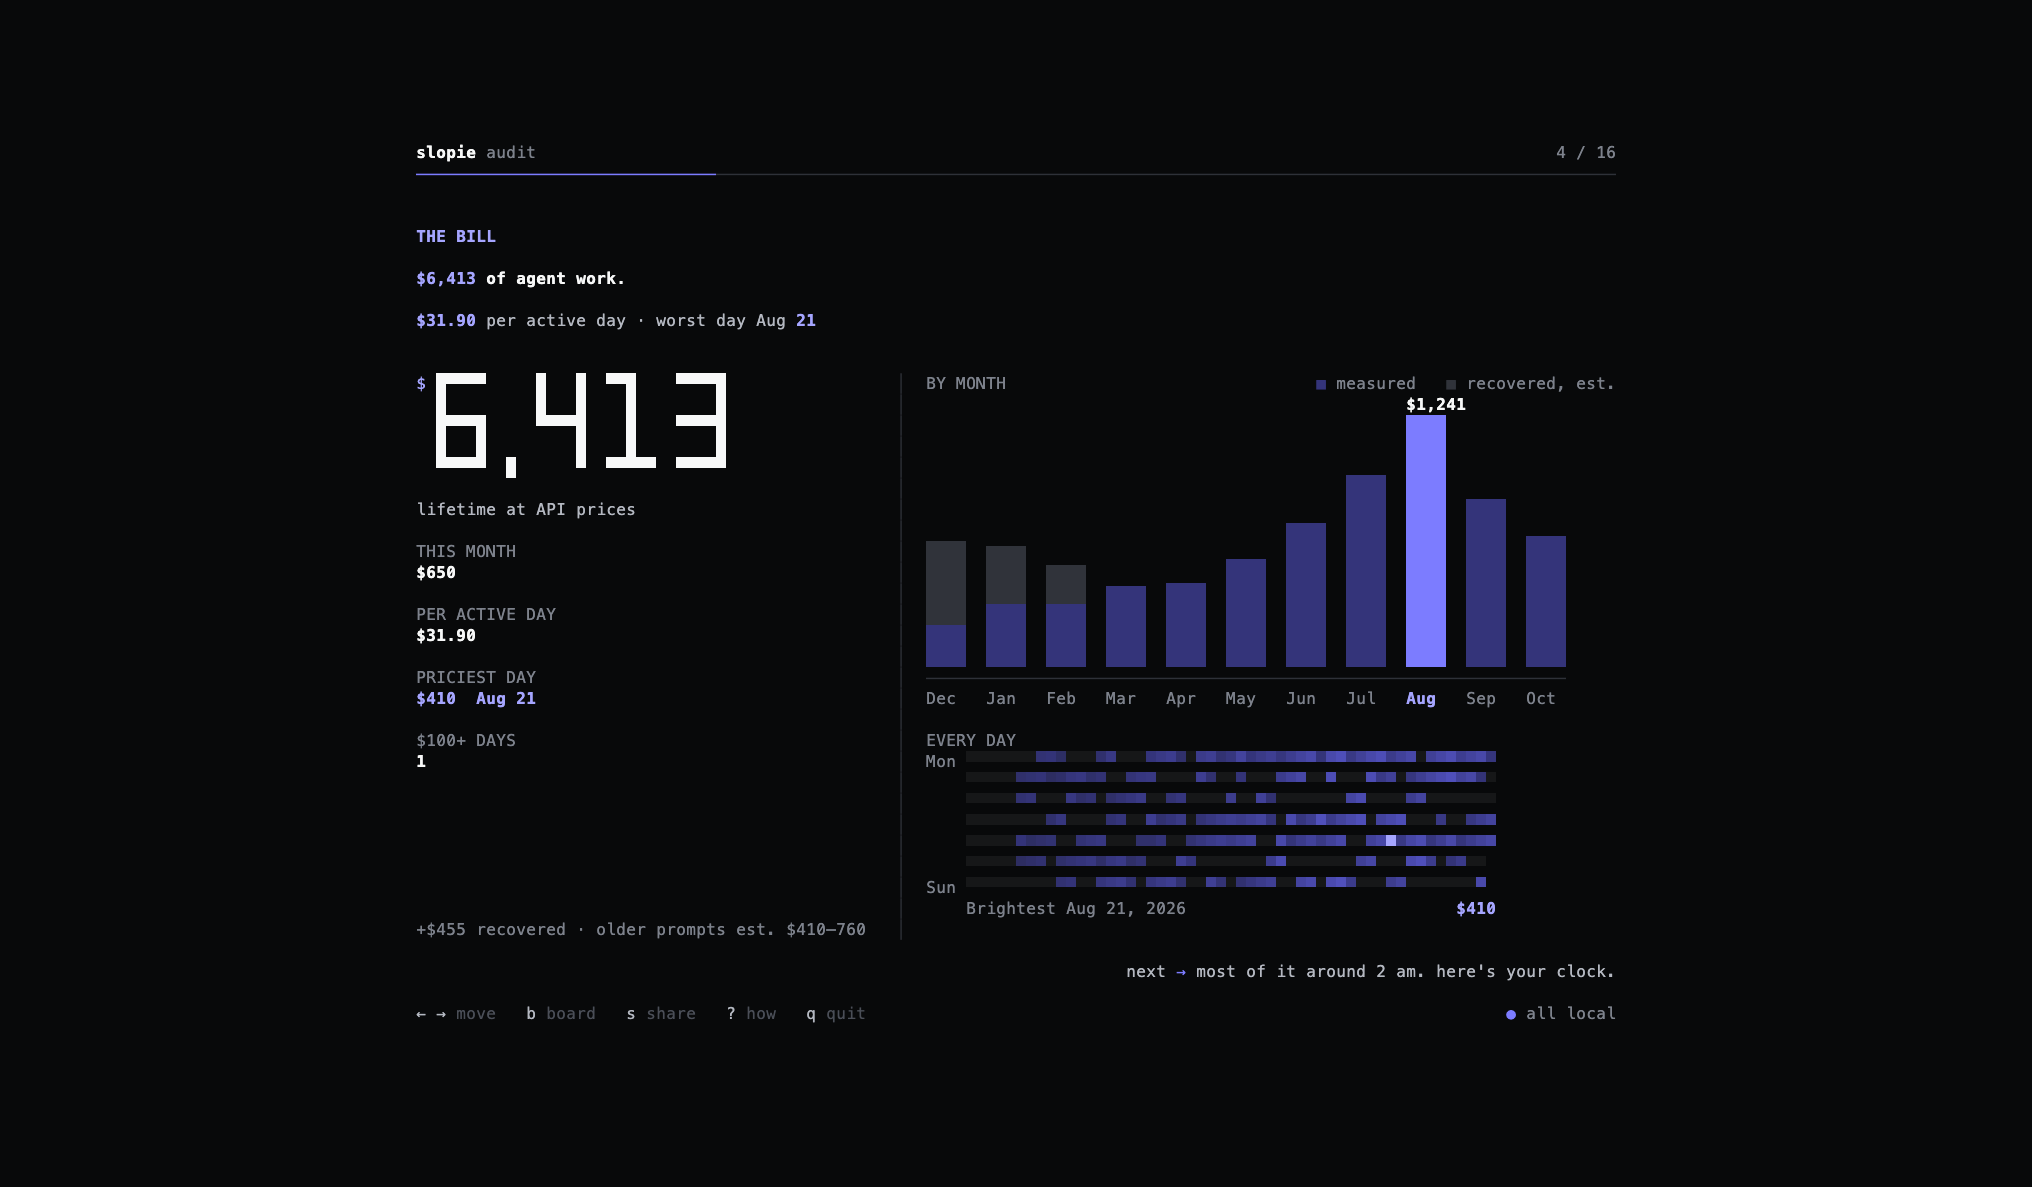
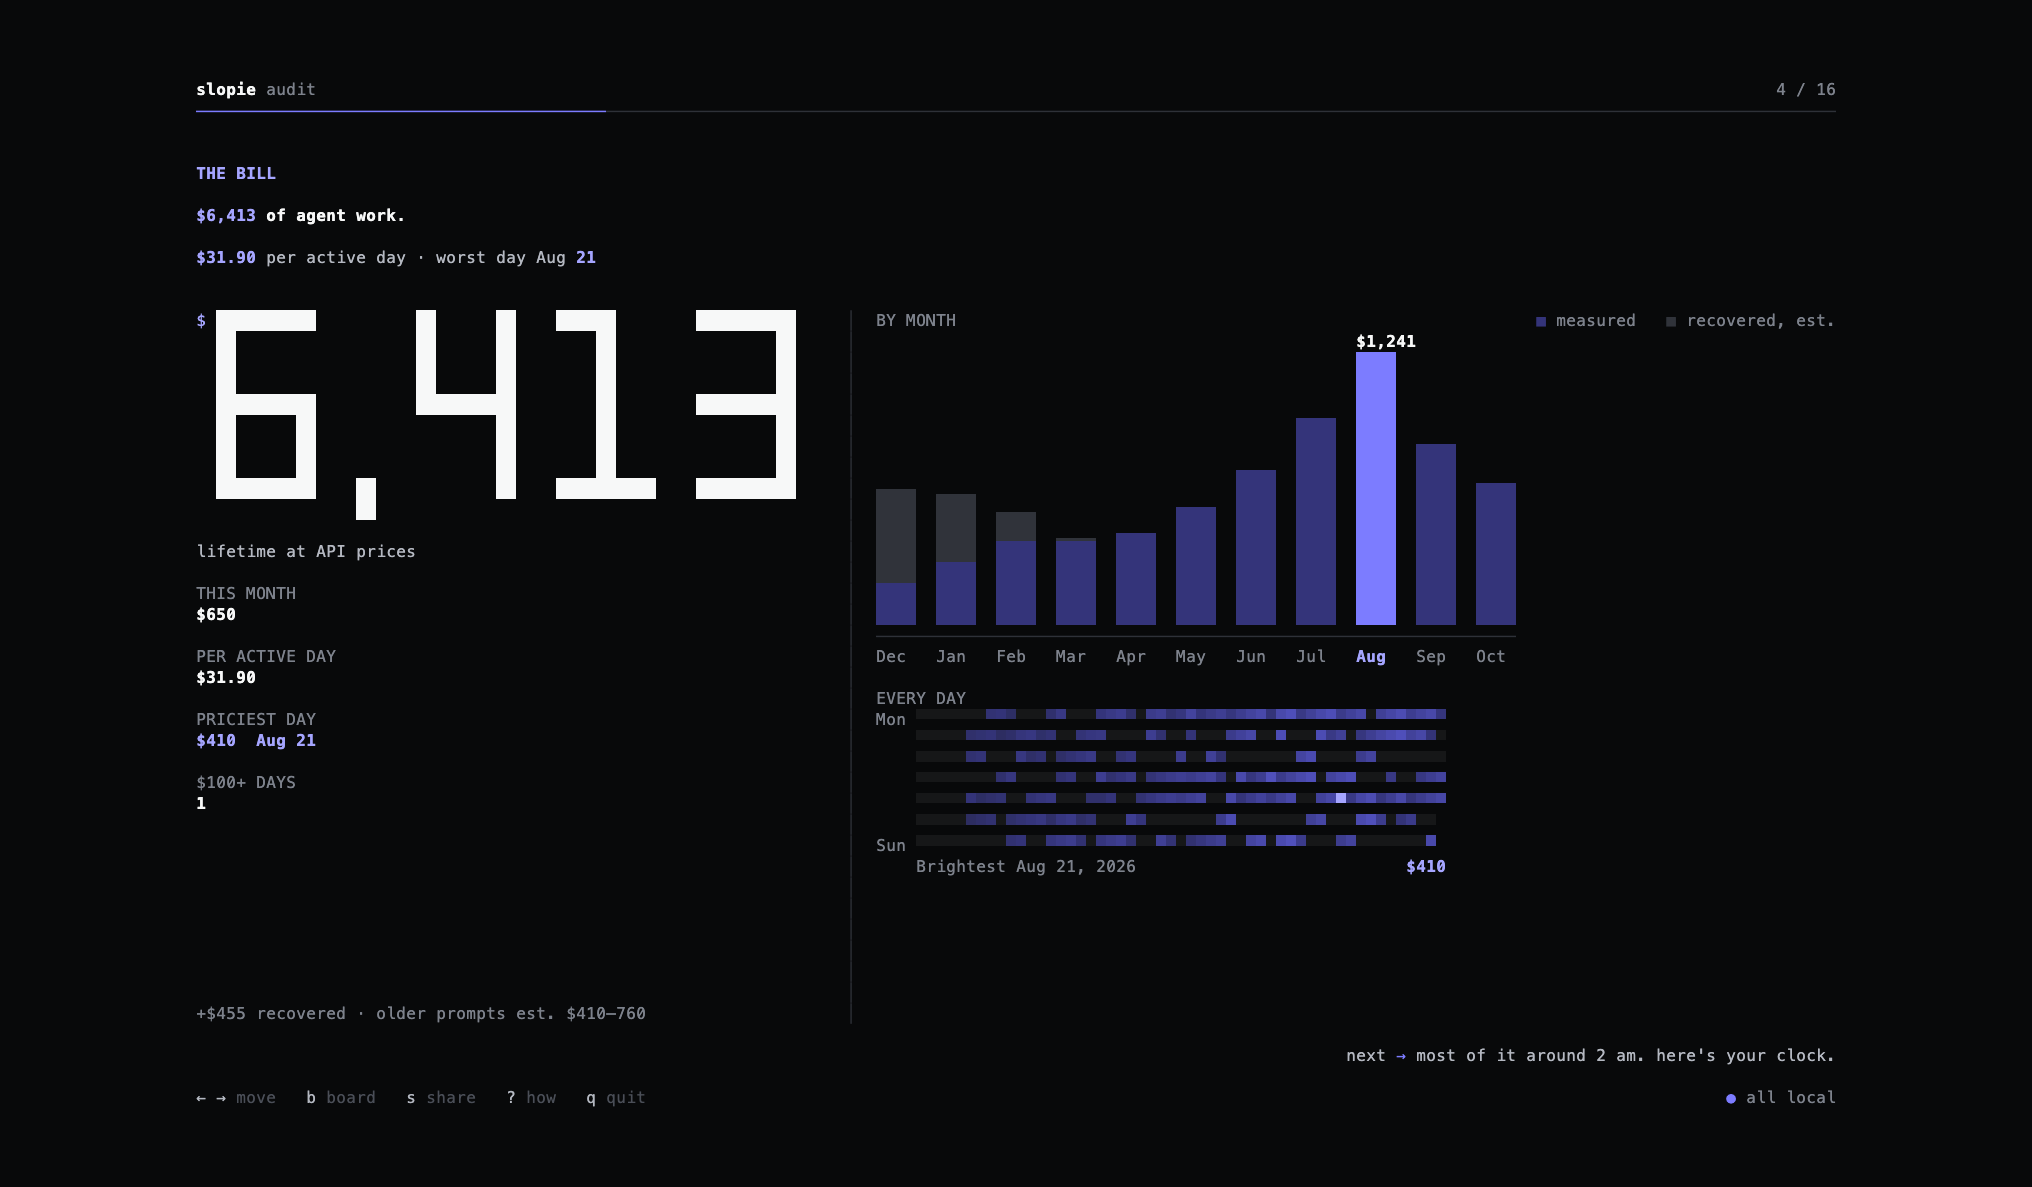
1.8.7 — Readable: large-terminal box, spaced board facts, rank-true award chips
Content box grows to min(cols−8, 176) × min(rows−4, 52) on big terminals; the board title
(else the price) doubles at ≥ 170×50. Board facts keep a blank row between rows and drop
mini-bars before spacing. Award chips follow the displayed rank; ranks 4–6 get a numeral.
Version bump, changelog, new share poster, re-rendered design-out/readable.

diff --git a/packages/cli/src/audit-ui/cards/poster.ts b/packages/cli/src/audit-ui/cards/poster.ts
@@ -61,10 +61,11 @@ interface Piece { h: number; draw: (y: number) => void; rule?: boolean; /** Want
 interface Plan { label: boolean; bigTitle: boolean; tagline: boolean; bigPrice: boolean; day: boolean; diagrams: boolean; nFacts: number; factGap: boolean; awards: boolean; memory: boolean; ticker: boolean }
 
 const STEPS: ((p: Plan) => void)[] = [
-  p => { p.factGap = false; },
   p => { p.memory = false; },
-  p => { p.label = false; },
+  // The mini-bars go before the spacing between facts.
   p => { p.diagrams = false; },
+  p => { p.factGap = false; },
+  p => { p.label = false; },
   p => { p.day = false; },
   p => { p.tagline = false; },
   p => { p.awards = false; },
@@ -87,7 +88,7 @@ export function posterBody(s: Scene, d: BoardSummary): boolean {
   let pieces = build(k, d, plan);
   for (const step of STEPS) { if (height(pieces, k.L) <= avail) break; step(plan); pieces = build(k, d, plan); }
   // Then win back what still fits, most important first.
-  const RESTORE: (keyof Plan)[] = ['bigTitle', 'ticker', 'bigPrice', 'tagline', 'awards', 'day', 'diagrams', 'factGap', 'label', 'memory'];
+  const RESTORE: (keyof Plan)[] = ['bigTitle', 'ticker', 'bigPrice', 'tagline', 'awards', 'day', 'factGap', 'diagrams', 'label', 'memory'];
   for (const key of RESTORE) {
     if (plan[key] === true || (key === 'ticker' && (!d.sinceLast || s.share))) continue;
     const next = { ...plan, [key]: true } as Plan;
@@ -159,7 +160,7 @@ function identity(k: K, d: BoardSummary, p: Plan): Piece[] {
   const out: Piece[] = [];
   const title = d.archetype ?? 'Your year with agents';
   if (p.label) out.push({ h: 1, draw: y => label(k, mx, y, 'this year you’ve been', 1, Infinity, tk.accentHi) });
-  const plan = p.bigTitle ? planTitle(k, title, iw, 1) : { lines: [title], big: false, h: 1, w: textWidth(title), face: tk.face };
+  const plan = p.bigTitle ? planTitle(k, title, iw, 1, heroScale(k)) : { lines: [title], big: false, h: 1, w: textWidth(title), face: tk.face };
   out.push({ h: plan.h, draw: y => drawTitle(k, mx, y, plan, tk.text) });
   const tag = p.tagline && d.tagline && (!k.s.share || d.taglinePublic) ? `“${d.tagline}”` : null;
   const tier = d.tier ? TIER[d.tier]! : null;
@@ -186,7 +187,9 @@ function heroBand(k: K, d: BoardSummary, p: Plan): Piece {
   const { tk, mx, iw, L } = k;
   const price = d.heroes.find(h => h.label === 'at API prices');
   const half = Math.floor(iw / 2);
-  const fit = price && k.uni ? fitDisplay(price.value, (L ? (k.s.big ? 60 : 40) : half) - 2, { face: tk.face, tall: L, currency: tk.accentHi, scale: heroScale(k) }) : null;
+  // The price doubles only when the title could not (one ×2 element per poster).
+  const titleX2 = k.s.big && planTitle(k, d.archetype ?? 'Your year with agents', iw, 1, 2).scale === 2;
+  const fit = price && k.uni ? fitDisplay(price.value, (L ? (k.s.big ? 64 : 40) : half) - 2, { face: tk.face, tall: L, currency: tk.accentHi, scale: titleX2 ? 1 : heroScale(k) }) : null;
   const opts = fit ?? { face: tk.face };
   const leftW = L ? Math.max(40, (fit ? displayWidth(price!.value, fit) : 0) + 6) : Math.max(30, Math.min(half, (fit ? displayWidth(price!.value, fit) : 26) + 4));
   const big = p.bigPrice && !!fit;
@@ -291,7 +294,8 @@ function factsPiece(k: K, d: BoardSummary, p: Plan): (Piece & { shown: FunFact[]
   // Spaced: label, blank, sentence, blank, bar; two blank rows between rows of facts.
   const air = p.factGap ? 1 : 0;
   const cellH = 2 + air + (p.diagrams ? 1 + air : 0);
-  const rowGap = p.factGap ? 2 : 0;
+  // A label never touches the fact above it: at least one blank row between rows of facts.
+  const rowGap = p.factGap ? 2 : 1;
   return {
     shown: picks.map(x => x.f),
     h: rows * cellH + (rows - 1) * rowGap,
@@ -357,7 +361,7 @@ function awardsPiece(k: K, d: BoardSummary, shown: FunFact[]): Piece | null {
   const cols = iw >= 100 ? 3 : 2;
   const gap = 3;
   const colW = Math.floor((iw - gap * (cols - 1)) / cols);
-  const list = d.awards.filter(a => !a.id || !covered.has(a.id)).filter(a => textWidth(a.title) + textWidth(a.tier) + 3 <= colW).slice(0, cols);
+  const list = d.awards.filter(a => !a.id || !covered.has(a.id)).filter(a => textWidth(a.title) + 9 <= colW).slice(0, cols);
   if (!list.length) return null;
   return {
     h: 2,
@@ -365,7 +369,9 @@ function awardsPiece(k: K, d: BoardSummary, shown: FunFact[]): Piece | null {
       const x = mx + i * (colW + gap);
       const value = k.s.share ? aw.publicValue : aw.value;
       const sub = (k.s.share ? aw.publicSub : aw.sub) ?? '';
-      const cw = chip(k, x, y, aw.tier.toUpperCase(), aw.tier === 'gold' ? tk.accent : aw.tier === 'silver' ? tk.bar : tk.barSoft, aw.tier === 'gold' ? tk.bg : tk.text) + 1;
+      // A chip only for the rank-1 / rank-2 awards (GOLD / SILVER); others carry none.
+      const rank = d.awards.indexOf(aw);
+      const cw = rank === 0 ? chip(k, x, y, 'GOLD', tk.accent, tk.bg) + 1 : rank === 1 ? chip(k, x, y, 'SILVER', tk.bar, tk.text) + 1 : 0;
       txt(k, x + cw, y, aw.title, tk.text, { bold: true }, colW - cw);
       const line = sub && textWidth(`${value}  ·  ${sub}`) <= colW - cw ? `${value}  ·  ${sub}` : value;
       if (textWidth(line) <= colW - cw) txt(k, x + cw, y + 1, line, tk.text2);

diff --git a/packages/cli/src/audit-ui/theme/title.ts b/packages/cli/src/audit-ui/theme/title.ts
@@ -4,9 +4,15 @@ import { displayHeight, displaySupported, displayWidth, drawDisplay, gapOf } fro
 import { textWidth, txt, type K } from './kit.js';
 import { fadeIn, type DisplayFace } from './tokens.js';
 
-export interface TitlePlan { lines: string[]; big: boolean; h: number; w: number; face: DisplayFace }
+export interface TitlePlan { lines: string[]; big: boolean; h: number; w: number; face: DisplayFace; scale?: number }
 
-export function planTitle(k: K, title: string, maxW: number, maxLines: number): TitlePlan {
+export function planTitle(k: K, title: string, maxW: number, maxLines: number, scale = 1): TitlePlan {
+  // Twice the size on one line when asked and it fits (big terminals).
+  if (scale > 1 && k.uni && k.tk.face === 'solid' && displaySupported(title)) {
+    const line = title.toUpperCase();
+    const o = { face: 'solid' as const, scale };
+    if (displayWidth(line, o) <= maxW) return { lines: [line], big: true, h: displayHeight(o), w: displayWidth(line, o), face: 'solid', scale };
+  }
   // One line in either face beats two lines; the solid face is wide, the heavy stroke face narrow.
   const faces: DisplayFace[] = k.tk.face === 'solid' ? ['solid', 'heavy'] : [k.tk.face];
   if (k.uni && displaySupported(title)) for (let n = 1; n <= maxLines; n++) for (const face of faces) {
@@ -47,7 +53,8 @@ export function drawTitle(k: K, x: number, y: number, plan: TitlePlan, color: Rg
   const face = plan.face;
   const fg = fadeIn(k.tk, color, a);
   if (!plan.big) { txt(k, x, y, plan.lines[0]!, color, { bold: true, a }); return; }
-  plan.lines.forEach((line, i) => drawDisplay(k.c, x, y + i * (displayHeight({ face }) + 1), line, fg, k.tk.bg, { face }));
+  const o = { face, scale: plan.scale };
+  plan.lines.forEach((line, i) => drawDisplay(k.c, x, y + i * (displayHeight(o) + 1), line, fg, k.tk.bg, o));
 }
 
 /** The locked title: one ghost bar per word, as tall as the set title. */

diff --git a/tests/audit-ui/board.test.ts b/tests/audit-ui/board.test.ts
@@ -65,9 +65,15 @@ describe('final board (personality poster)', () => {
     // Each fact under its own small label, on one grid; no tiles, no boxes.
     for (const label of CORE_LABELS) expect(text).toContain(label);
     expect(text).not.toMatch(/[╭╮╰╯┌┐└┘]/);
-    // Diagrams: the manners split, the arc sparkline, the 24h strip with its axis.
-    expect(text).toMatch(/22 [█▌]+ 131/);
-    expect(text).toMatch(/Dec [▁▂▃▄▅▆▇█]{11,22} Oct/);
+    // At 120×40 the mini-bars go before the spacing: a blank row between each fact and the next label.
+    expect(text).not.toMatch(/22 [█▌]+ 131/);
+    const lines = text.split('\n');
+    const sit = lines.findIndex(l => l.includes('LONGEST SIT'));
+    expect(lines[sit - 1]!.trim()).toBe('');
+    // With room (the 176×52 box of a 200×55 terminal) the diagrams come back.
+    const roomy = boardText(storySnapshot(), 200, 55);
+    expect(roomy).toMatch(/22 [█▌]+ 131/);
+    expect(roomy).toMatch(/Dec [▁▂▃▄▅▆▇█]{11,22} Oct/);
     expect(text).toContain('11 PM angriest');
     expect(text).toContain('9 AM calmest');
     // The hour axis sits under the strip, each label under its own hour column.

diff --git a/packages/cli/src/audit-ui/cards/places.ts b/packages/cli/src/audit-ui/cards/places.ts
@@ -147,7 +147,8 @@ export function awardsBody(k: K, data: Data<'awards'>, r: Rect): void {
     const gold = rank === 0;
     const y = y0 - (gold ? lift : 0);
     const a = fade(k, 150 + rank * 220, 400);
-    const metal = metalOf(award.tier, rank);
+    // The chip follows the displayed rank: 1 gold, 2 silver, 3 bronze.
+    const metal: Metal = rank === 0 ? 'gold' : rank === 1 ? 'silver' : 'bronze';
     if (gold) rule(k, x, y - 1, colW, tk.accent, a);
     let cy = y + 1;
     const n = String(rank + 1);
@@ -171,7 +172,8 @@ export function awardsBody(k: K, data: Data<'awards'>, r: Rect): void {
     const rw = Math.floor((r.w - gap * 2) / 3);
     rest.forEach((award, i) => {
       const x = r.x + i * (rw + gap);
-      const cw = metalChip(k, x, ry + 1, metalOf(award.tier, i + 3), ra);
+      // Ranks 4–6: a small numeral, no tier chip.
+      const cw = txt(k, x, ry + 1, String(i + 4), tk.text3, { bold: true, a: ra }) + 1;
       txt(k, x + cw + 1, ry + 1, award.title, tk.text, { bold: true, a: ra }, rw - cw - 1);
       const value = s.share && award.publicValue ? award.publicValue : award.value;
       txt(k, x + cw + 1, ry + 2, value, tk.text2, { a: ra }, rw - cw - 1);

diff --git a/packages/cli/src/audit-ui/cards/index.ts b/packages/cli/src/audit-ui/cards/index.ts
@@ -15,11 +15,15 @@ import { erasBody, spendBody } from './spend.js';
 import { clockBody, fuseBody, moodBody } from './time.js';
 import { coldOpenBody, mannersBody, talkBody, thenNowBody } from './words.js';
 
-/** The content box: cards are laid out in at most 132×44 cells, centred on bigger terminals. */
-export const BOX_W = 132, BOX_H = 44;
+/** The content box: up to 132×44 the terminal itself; bigger terminals get min(cols−8, 176) × min(rows−4, 52), centred. */
+export const BOX_W = 132, BOX_H = 44, BIG_W = 176, BIG_H = 52;
+
+export function boxFor(w: number, h: number): [number, number] {
+  return [Math.max(Math.min(w, BOX_W), Math.min(w - 8, BIG_W)), Math.max(Math.min(h, BOX_H), Math.min(h - 4, BIG_H))];
+}
 
 export function renderCard(s: Scene, card: DeckCard): boolean {
-  const bw = Math.min(s.w, BOX_W), bh = Math.min(s.h, BOX_H);
+  const [bw, bh] = boxFor(s.w, s.h);
   if (bw === s.w && bh === s.h) return drawCard(s, card);
   const sub = new Canvas(bw, bh, s.c.base);
   const busy = drawCard({ ...s, c: sub, w: bw, h: bh, tier: tierFor(bw, bh) ?? s.tier, big: s.w >= 170 && s.h >= 50 }, card);

diff --git a/packages/core/src/version.ts b/packages/core/src/version.ts
@@ -30,4 +30,4 @@
  * has not been made yet, so it checks the one direction that has actually gone
  * wrong twice.
  */
-export const VERSION = '1.8.6';
+export const VERSION = '1.8.7';

diff --git a/CHANGELOG.md b/CHANGELOG.md
@@ -2,6 +2,16 @@
 
 Public releases use package versions. Internal development phase numbers are planning milestones, not product versions. This public release consolidates a development snapshot; the original private development branches are preserved separately.
 
+## 1.8.7 — Readable
+
+- **Bigger type.** Every card has one hero number in the display face, secondary numbers in the thinner stroke face, and labels set as small uppercase captions above bold values. On big terminals (170×50 and up) the hero doubles in size.
+- **More colour.** The indigo accent now comes in tints: eyebrows, key figures, chart fills, heatmaps and chips use it, so every card has a clear focal point. Body text is a lighter grey; the dim grey is kept for labels and footnotes.
+- **Less text.** Each card has one short headline and at most one line under it. Detail moved into label/value rows.
+- **Charts in the accent.** Bars, heatmaps and meters are drawn in indigo tints with the one point that matters in the full accent. Meters are solid one-row bars.
+- **Layouts that fill large terminals.** Cards lay out in a content box that grows with the terminal (up to 176×52) and is centred, with taller charts and more air.
+- **A new awards podium.** Gold, silver and bronze stand on a podium with their rank in the display face; ranks 4–6 sit in one row beneath. The board's facts grid gets proper spacing.
+- Same numbers, same data: this release changes only how they look.
+
 ## 1.8.6 — New look
 
 - **A new look for `slopie audit`.**
